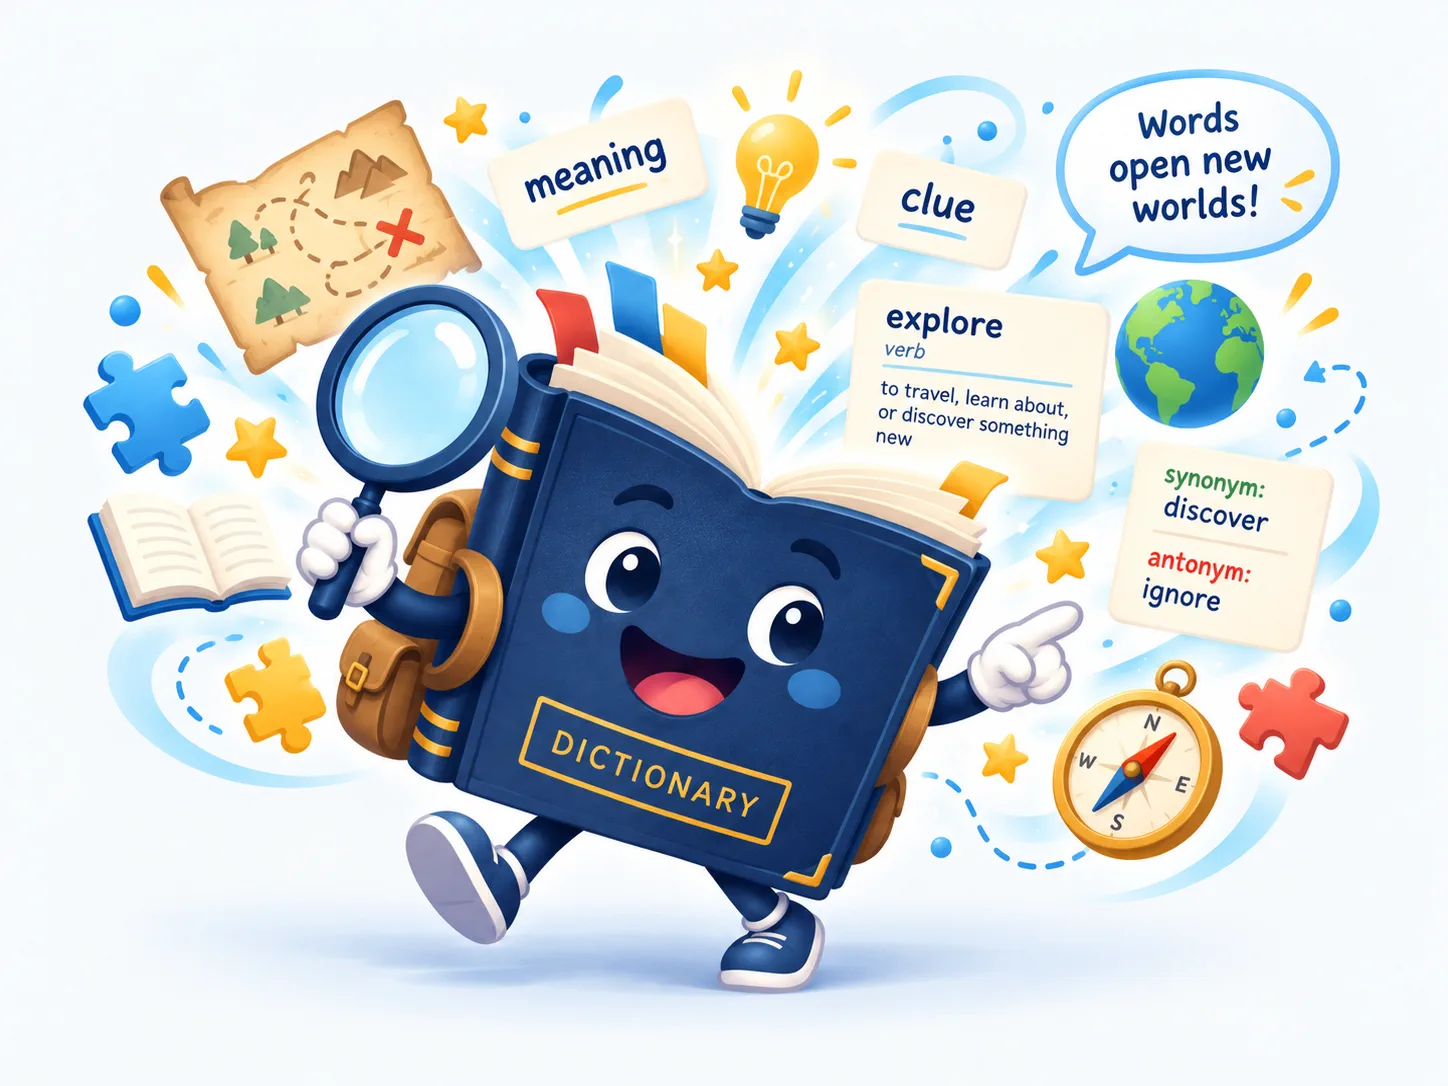
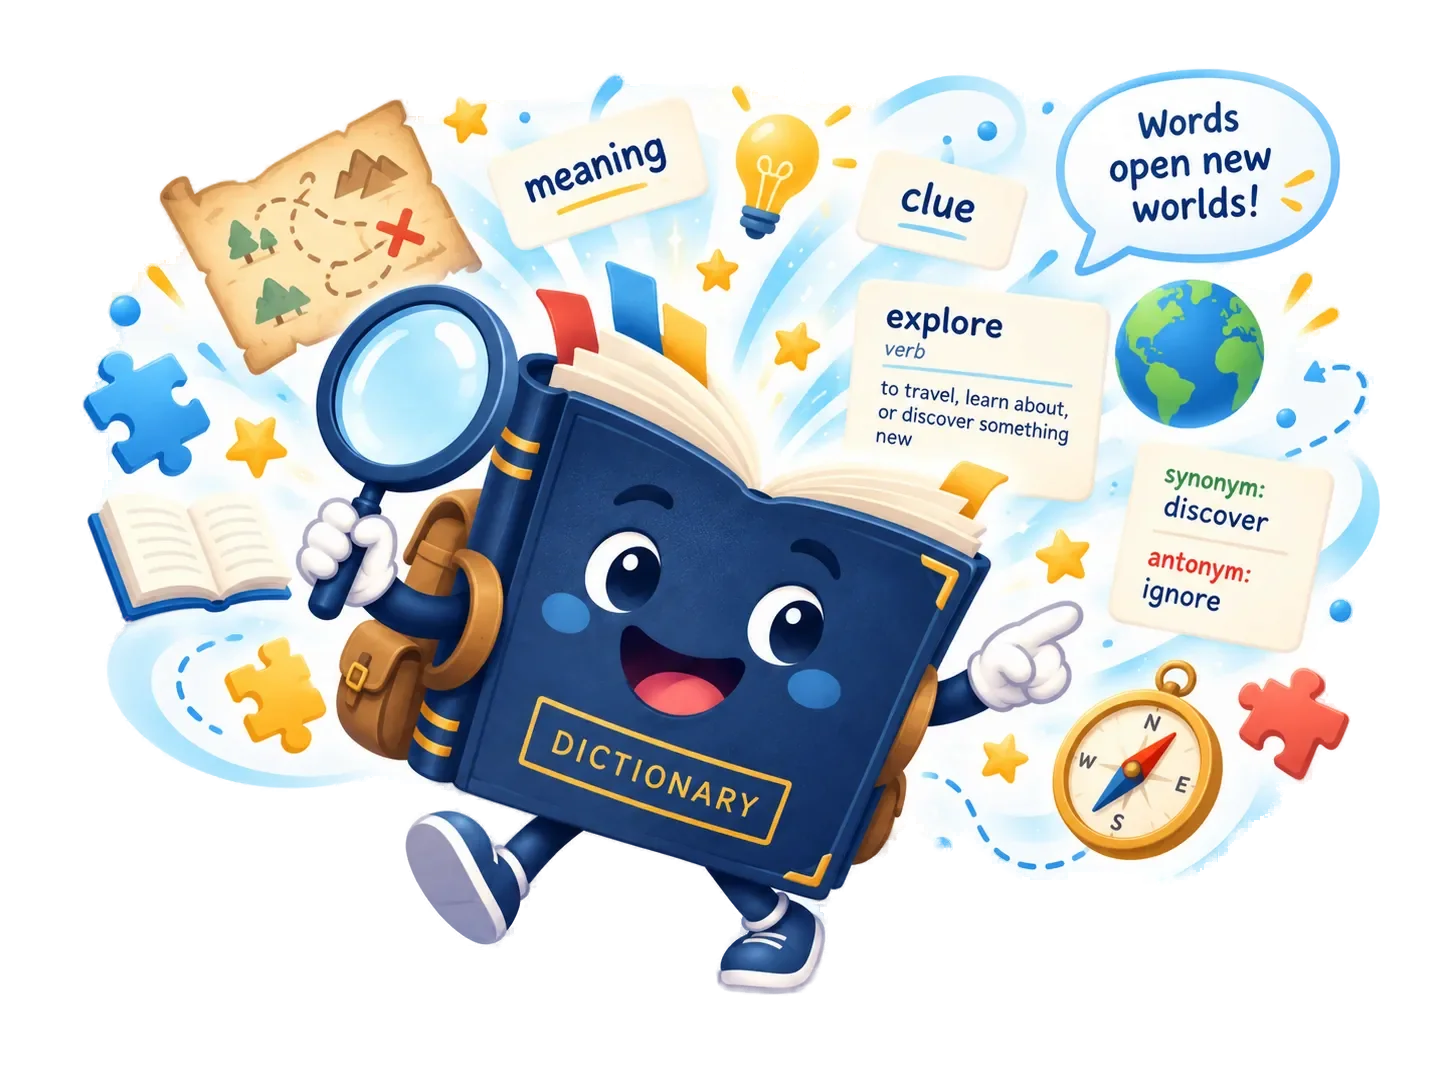
image formatinng and branding updates

diff --git a/src/main.js b/src/main.js
@@ -14,6 +14,19 @@ import {
 const app = document.querySelector('#app');
 let quizState = initialQuizState;
 
+const adultSponsorProjects = [
+  { matches: /Rotary/i, description: 'Five Fargo–Moorhead Rotary Clubs have joined forces to create major community projects like the Rotary Natural Play Hill and Lindenwood Playground, along with literacy, arts, and international service projects.' },
+  { matches: /Lions/i, description: 'Horace Lions has given hundreds of thousands of dollars back to the community and provides free vision screening for local children.' },
+  { matches: /Elks/i, description: 'Fargo Elks Lodge #260 brings the community together through events like its Summer Car Show Series while raising money and supporting local youth, veterans, and neighbors in need.' }
+];
+
+const adultSponsorConfig = {
+  sponsors: sponsorConfig.sponsors.map((sponsor) => ({
+    ...sponsor,
+    description: adultSponsorProjects.find(({ matches }) => matches.test(sponsor.title))?.description || sponsor.description
+  }))
+};
+
 const button = (label, route, className = 'button') =>
   `<button class="${className}" data-route="${route}">${label}</button>`;
 
@@ -97,12 +110,38 @@ function adult() {
   return layout(`<section class="card adult" aria-labelledby="adult-title">
     <button class="text-button" data-route="home">← Back</button>
     <p class="kicker">For grown-ups</p>
-    <h1 id="adult-title">Why this dictionary?</h1>
-    <p class="lede">Community sponsors help put dictionaries in children’s hands as a tool for literacy, learning, and independence.</p>
-    <div class="adult-grid"><article><h2>A book to keep</h2><p>It can help children build vocabulary, improve spelling, understand what they read, and solve language questions on their own.</p></article><article><h2>Learning through service</h2><p>Community service organizations bring volunteers together to help their neighbors. Supporting literacy gives children tools they can use for a lifetime.</p></article></div>
-    <p class="note">This challenge teaches children to use the physical dictionary—it never replaces it.</p>
-    <h2>Local help, wider possibilities</h2><p>Service starts close to home. Rotary Clubs, for example, support education locally and work with clubs in other countries on projects such as clean water and health.</p>
-    ${renderSponsors(sponsorConfig)}
+    <h1 id="adult-title">Want to get more involved?</h1>
+    <p class="lede">Your child’s dictionary is one example of what local service clubs make possible.</p>
+    <p>The five Fargo–Moorhead Rotary Clubs, Horace Lions Club, and Fargo Elks bring people together to serve our community, build relationships, and make good things happen.</p>
+
+    <section class="adult-section" aria-labelledby="why-involved-title">
+      <h2 id="why-involved-title">Why get involved?</h2>
+      <p>As adults, it can be surprisingly hard to meet new people, make genuine friendships, expand our circles, and find meaningful ways to get involved in our community. Service clubs make that easier.</p>
+      <p>Getting involved can help you:</p>
+      <ul class="benefit-list">
+        <li><span class="benefit-icon" aria-hidden="true">diversity_3</span><strong>Meet new people</strong> from different professions, ages, backgrounds, and walks of life.</li>
+        <li><span class="benefit-icon" aria-hidden="true">celebration</span><strong>Build friendships and have fun</strong> while doing something worthwhile.</li>
+        <li><span class="benefit-icon" aria-hidden="true">trending_up</span><strong>Grow personally and professionally</strong> by learning from others and taking on new challenges.</li>
+        <li><span class="benefit-icon" aria-hidden="true">location_city</span><strong>Get to know your community</strong>—its people, organizations, needs, and opportunities.</li>
+        <li><span class="benefit-icon" aria-hidden="true">emoji_objects</span><strong>Turn ideas into reality</strong> by connecting with people who have the knowledge, resources, and relationships to help.</li>
+        <li><span class="benefit-icon" aria-hidden="true">volunteer_activism</span><strong>Make a difference close to home</strong> through projects you can see and be part of.</li>
+      </ul>
+    </section>
+
+    <section class="adult-section" aria-labelledby="more-than-dictionaries-title">
+      <h2 id="more-than-dictionaries-title">More than dictionaries</h2>
+      <p>The Dictionary Project is just one example of what local service clubs make possible.</p>
+      <p class="note"><strong>Different clubs. Different projects.</strong> One idea: people working together can accomplish a lot.</p>
+    </section>
+
+    <section class="adult-section" aria-labelledby="find-a-club-title">
+      <h2 id="find-a-club-title">Find a club that fits your life</h2>
+      <p>You don’t need to know someone before you come, and you don’t need to be a business executive or longtime community leader. You just need to be interested in meeting people and getting involved.</p>
+      <p>Service clubs aren’t all noon lunch meetings. Local clubs meet on different days, with options at 7:00 a.m., noon, and in the evening. With several clubs to choose from, there’s likely an option that works with your schedule.</p>
+    </section>
+
+    ${renderSponsors(adultSponsorConfig, { heading: 'Meet the clubs behind the Dictionary Project', linkLabel: 'Learn more • Find a club • Visit a meeting' })}
+    <p class="closing-invitation">Come meet some people. Find your place. Make something happen.</p>
     ${button('Explore the Kid Challenge', 'intro', 'button button-primary')}
   </section>`, true);
 }

diff --git a/src/styles.css b/src/styles.css
@@ -30,6 +30,14 @@
   --title-size: clamp(1.8rem, 5vw, 2.5rem);
 }
 
+@font-face {
+  font-family: "Material Symbols Outlined";
+  src: url("./assets/material-symbols-grownups.woff2") format("woff2");
+  font-style: normal;
+  font-weight: 400;
+  font-display: block;
+}
+
 * { box-sizing: border-box; }
 body { margin: 0; font-size: var(--body-size); line-height: 1.6; overflow-wrap: anywhere; }
 button, input, textarea { font: inherit; }
@@ -120,6 +128,13 @@ footer { margin-top: auto; padding-top: var(--space-6); color: var(--muted); fon
 .adult-grid h2 { margin: 0 0 var(--space-2); }
 .adult-grid p { margin: 0; }
 .adult > p { max-width: 44rem; }
+.adult-section { max-width: 52rem; margin-top: var(--space-6); }
+.adult-section > h2 { margin: 0 0 var(--space-3); font-size: 1.5rem; }
+.benefit-list { display: grid; gap: var(--space-3); padding: 0; list-style: none; }
+.benefit-list li { padding: var(--space-3); border: 1px solid var(--line); border-radius: var(--radius); background: var(--page); }
+.benefit-list strong { display: block; margin-bottom: var(--space-1); color: var(--heading); }
+.benefit-icon { display: block; width: fit-content; margin-bottom: var(--space-2); color: var(--blue); font-family: "Material Symbols Outlined"; font-size: 2rem; font-weight: 400; font-style: normal; line-height: 1; letter-spacing: normal; text-transform: none; white-space: nowrap; word-wrap: normal; direction: ltr; font-feature-settings: "liga"; }
+.closing-invitation { margin: var(--space-5) 0; color: var(--heading); font-size: 1.25rem; font-weight: 600; }
 .sponsors { margin: var(--space-5) 0; padding-top: var(--space-4); border-top: 1px solid var(--line); }
 .sponsors > h2 { margin: 0 0 var(--space-4); color: var(--muted); font-size: var(--small-size); font-weight: 600; }
 .sponsor-grid { display: grid; grid-template-columns: repeat(auto-fit, minmax(min(100%, 240px), 1fr)); gap: var(--space-5); }
@@ -129,6 +144,8 @@ footer { margin-top: auto; padding-top: var(--space-6); color: var(--muted); fon
 .sponsor h3 { margin: 0 0 var(--space-1); font-size: 1rem; }
 .sponsor p { max-width: 40rem; margin: 0; color: var(--muted); }
 .sponsor a { display: inline-flex; align-items: center; gap: .3rem; min-height: 44px; font-size: var(--small-size); font-weight: 600; }
+.adult .sponsor { display: flex; flex-direction: column; padding: var(--space-4); border: 1px solid var(--line); border-radius: var(--radius); background: var(--page); }
+.adult .sponsor a { width: fit-content; margin-top: auto; padding-top: var(--space-3); }
 .sponsors-compact { margin-top: 0; }
 .sr-only { position: absolute; width: 1px; height: 1px; padding: 0; margin: -1px; overflow: hidden; clip-path: inset(50%); white-space: nowrap; border: 0; }
 
@@ -138,7 +155,11 @@ footer { margin-top: auto; padding-top: var(--space-6); color: var(--muted); fon
   .hero { grid-template-columns: 1.2fr 1fr; gap: var(--space-5); padding: var(--space-6) 0; }
   .hero-dictionary { width: 100%; max-height: 320px; }
   .audience-choices, .adult-grid { grid-template-columns: 1fr 1fr; }
+  .benefit-list { grid-template-columns: repeat(2, 1fr); }
   .audience-choice { padding: var(--space-5); }
+}
+@media (min-width: 960px) {
+  .benefit-list { grid-template-columns: repeat(3, 1fr); }
 }
 @media (max-width: 499px) {
   .brand-tag { display: none; }

diff --git a/src/sponsors.js b/src/sponsors.js
@@ -39,17 +39,17 @@ export const escapeHtml = (value) => String(value).replace(/[&<>"']/g, (characte
   '&': '&amp;', '<': '&lt;', '>': '&gt;', '"': '&quot;', "'": '&#39;'
 })[character]);
 
-export function renderSponsors(config, { compact = false } = {}) {
+export function renderSponsors(config, { compact = false, heading = 'Made possible by', linkLabel = 'Learn more' } = {}) {
   const { sponsors } = validateSponsorConfig(config);
   return `<section class="sponsors ${compact ? 'sponsors-compact' : ''}" aria-labelledby="sponsors-title">
-    <h2 id="sponsors-title">Made possible by</h2>
+    <h2 id="sponsors-title">${escapeHtml(heading)}</h2>
     <div class="sponsor-grid">${sponsors.map((sponsor) => `<article class="sponsor">
       ${sponsor.logo
         ? `<img class="sponsor-logo" src="${escapeHtml(sponsor.logo)}" alt="" width="160" height="80" />`
         : `<span class="sponsor-letter" aria-hidden="true">${escapeHtml(Array.from(sponsor.title)[0])}</span>`}
       <h3>${escapeHtml(sponsor.title)}</h3>
       <p>${escapeHtml(sponsor.description)}</p>
-      <a href="${escapeHtml(sponsor.url)}" rel="noreferrer">Learn more<span class="sr-only"> about ${escapeHtml(sponsor.title)}</span> <span aria-hidden="true">↗</span></a>
+      <a href="${escapeHtml(sponsor.url)}" rel="noreferrer">${escapeHtml(linkLabel)}<span class="sr-only"> about ${escapeHtml(sponsor.title)}</span> <span aria-hidden="true">↗</span></a>
     </article>`).join('')}</div>
   </section>`;
 }

diff --git a/tests/quiz.test.js b/tests/quiz.test.js
@@ -121,7 +121,13 @@ describe('client-only journey', () => {
     assert.match(source, /I’m a Kid/);
     assert.match(source, /physical book/);
     assert.match(source, /I’m a Grown-up/);
-    assert.match(source, /Why this dictionary?/);
-    assert.match(source, /literacy, learning, and independence/);
+    assert.match(source, /Want to get more involved?/);
+    assert.match(source, /Your child’s dictionary is one example/);
+    assert.match(source, /Why get involved?/);
+    assert.equal((source.match(/class="benefit-icon"/g) || []).length, 6);
+    assert.match(source, /More than dictionaries/);
+    assert.match(source, /adultSponsorProjects/);
+    assert.match(source, /Find a club that fits your life/);
+    assert.match(source, /Meet the clubs behind the Dictionary Project/);
   });
 });

diff --git a/docs/UX.md b/docs/UX.md
@@ -172,7 +172,7 @@ Optional small Rotary footer:
 
 ## Adult Flow
 
-### Page 1: Why This Dictionary?
+### Page 1: The Dictionary as an Invitation
 
 Lead with purpose.
 
@@ -182,57 +182,32 @@ Suggested framing:
 
 Explain that owning a personal dictionary gives a child a resource they can continue using at school and at home.
 
-### Page 2: Learning to Use It
+### Page 2: Why Get Involved?
 
-Explain the intended educational benefit:
+Explain how participating in a service club can help adults:
 
-- vocabulary,
-- spelling,
-- reading comprehension,
-- writing,
-- independent learning,
-- reference skills.
+- meet people from different backgrounds,
+- build friendships,
+- grow personally and professionally,
+- better understand their community,
+- connect ideas with useful knowledge and resources,
+- and contribute to visible local projects.
 
-Explain that the QR challenge is meant to help children start exploring the dictionary immediately.
+Present the six benefits as a responsive card grid that remains easy to scan on a phone. Give each card a distinct, decorative font icon while keeping its visible heading and description as the accessible meaning.
 
-### Page 3: Why Rotary?
+### Page 3: More Than Dictionaries
 
-Introduce Rotary through service rather than organizational history.
+Give concrete local examples from the five Fargo–Moorhead Rotary Clubs, Horace Lions Club, and Fargo Elks Lodge #260.
 
-Suggested framing:
+Combine each project example with its matching sponsor logo, name, and link in the sponsor grid. The cards cover Rotary’s parks, literacy, arts, and international work; Lions’ community giving and children’s vision screening; and Elks’ community events and support for youth, veterans, and neighbors in need.
 
-> Rotary Clubs bring people together to improve their communities.
+### Page 4: Find a Club That Fits Your Life
 
-Then connect literacy:
+Welcome people without prior club connections or leadership experience. Explain that local options include morning, noon, and evening meetings on different days.
 
-> Supporting education and literacy is one of the ways Rotary Clubs invest in long-term community strength.
+### Page 5: Meet the Clubs Behind the Dictionary Project
 
-### Page 4: Local and Beyond
-
-This is a key distinction.
-
-Suggested concept:
-
-```text
-Our Community
-     ↕
-Our Rotary Club
-     ↕
-Rotary Clubs Everywhere
-```
-
-Explain that a Rotary Club can:
-
-- address needs in its own city,
-- partner with schools and nonprofits,
-- support regional projects,
-- and work with Rotary members and clubs in other countries.
-
-This gives parents a sense of scale without centering the experience on one Rotary program.
-
-### Page 5: Our Community Sponsors
-
-The current grown-up screen includes each build-configured sponsor’s logo, title, description, and learn-more link after the literacy explanation.
+The grown-up screen includes each build-configured sponsor’s logo, title, description, and learn-more link, followed by a concise invitation to meet people, find a place, and make something happen.
 
 ## Child Design Principles
 

diff --git a/docs/ASSETS.md b/docs/ASSETS.md
@@ -1,4 +1,4 @@
-# Image assets
+# Media assets
 
 These project assets were created or edited with the built-in image-generation tool, then resized and encoded as WebP with alpha preserved. No runtime image service is used.
 
@@ -7,8 +7,11 @@ These project assets were created or edited with the built-in image-generation t
 | Dictionary | `src/assets/dictionary.webp` | Landing-page illustration; 900 × 600, approximately 76KiB |
 | Lions | `assets/sponsors/lions-transparent.webp` | Transparent cutout of supplied sponsor mark |
 | Elks | `assets/sponsors/elks-transparent.webp` | Transparent cutout of supplied sponsor mark |
+| Grown-up benefit icons | `src/assets/material-symbols-grownups.woff2` | Locally served subset of Google Material Symbols Outlined; approximately 3KiB |
 
 The two sponsor cutouts are also embedded in `sponsors.json` so the local editor can import/export the complete configuration. The supplied Rotary asset already had transparency and was retained. The dictionary is a generic illustrative book, not a photograph of a specific distributed edition. Sponsor marks remain the identities of their respective organizations.
+
+The icon font contains only the six symbols used by the grown-up benefit cards and is served locally, so displaying the icons makes no request to Google Fonts.
 
 ## Final prompts
 
@@ -23,4 +26,3 @@ Use case: background-extraction. Edit target: supplied Lions International logo.
 ### Elks
 
 Use case: background-extraction. INPUT IS AN EDIT TARGET, NOT A STYLE REFERENCE. Remove the white background of this supplied Elks script logo, and output an actual RGBA PNG with alpha=0 in the background. This is a file transparency requirement: NEVER draw a checkerboard, never simulate transparency with gray squares, and never use a white or colored backdrop. The original dark charcoal lettering and all its contours must remain exactly as supplied. Preserve the original subtle drop shadow using semitransparent pixels. Change only background alpha, no redesign, no new letters, no new texture. Keep the full mark at its original proportions. Genuine transparent image cutout.
-

diff --git a/docs/PRODUCT.md b/docs/PRODUCT.md
@@ -266,22 +266,22 @@ As a child, I want a clear celebration when I finish.
 
 #### User Story
 
-As an adult, I want to understand why Rotary gave this dictionary and what Rotary does.
+As an adult, I want to understand how local service clubs made this dictionary project possible and how I can get involved in my community.
 
 #### Information Architecture
 
-1. Why did my child receive a dictionary?
-2. Why dictionaries and literacy matter
-3. What is Rotary?
-4. What does Rotary do locally?
-5. How can local Rotary Clubs work internationally?
-6. Learn more about the sponsoring club
+1. How does the dictionary connect to local service?
+2. Why might I get involved?
+3. What projects do the participating clubs support?
+4. Can I find a club that fits my schedule and interests?
+5. How can I learn more or visit a participating club?
 
 #### Acceptance Criteria
 
 - Literacy is the entry point.
 - All configured sponsors are clearly identified.
-- Page distinguishes local and broader Rotary service.
+- Page gives locally relevant examples of Rotary, Lions, and Elks service.
+- Page explains that clubs offer different meeting times and welcomes newcomers.
 - Organizers supply sponsor details and links at build time.
 
 ## Non-Goals
